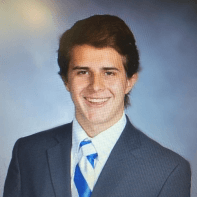
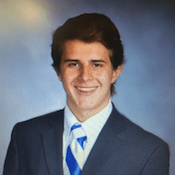
Resized all team photos to 175x175 and put the original video back on the website

diff --git a/index.html b/index.html
@@ -352,59 +352,17 @@
 <section class="stats" id = "importantDates">
     <!-- STATS -->
     
-    <!-- 
 	<div class="container">
 	    <style>.embed-container { position: relative; padding-bottom: 56.25%; height: 0; overflow: hidden; max-width: 100%; } .embed-container iframe, .embed-container object, .embed-container embed { position: absolute; top: 0; left: 0; width: 100%; height: 100%; }</style><div class='embed-container'><iframe src='https://www.youtube.com/embed/OKofZUAxw1c' frameborder='0' allowfullscreen></iframe></div>
 	</div><br><br>
 
+<!--
     <div class="container">
 	    <style>.embed-container { position: relative; padding-bottom: 56.25%; height: 0; overflow: hidden; max-width: 100%; } .embed-container iframe, .embed-container object, .embed-container embed { position: absolute; top: 0; left: 0; width: 100%; height: 100%; }</style><div class='embed-container'><iframe src='https://www.youtube.com/embed/6xuP8K7ROrk' frameborder='0' allowfullscreen></iframe></div>
 	</div><br><br>
     
     -->
-    
-    <script>
  
-    /* Light YouTube Embeds by @labnol */
-    /* Web: http://labnol.org/?p=27941 */
- 
-    document.addEventListener("DOMContentLoaded",
-        function() {
-            var div, n,
-                v = document.getElementsByClassName("youtube-player");
-            for (n = 0; n < v.length; n++) {
-                div = document.createElement("div");
-                div.setAttribute("data-id", v[n].dataset.id);
-                div.innerHTML = labnolThumb(v[n].dataset.id);
-                div.onclick = labnolIframe;
-                v[n].appendChild(div);
-            }
-        });    
-        
-    function labnolThumb(id) {
-        var thumb = '<img style="object-fit:cover;" src="https://i.ytimg.com/vi/ID/hqdefault.jpg" />',
-            play = '<div class="play"></div>';
-        return thumb.replace("ID", id) + play;
-    }
- 
-    function labnolIframe() {
-        var iframe = document.createElement("iframe");
-        var embed = "https://www.youtube.com/embed/ID?autoplay=1";
-        iframe.setAttribute("src", embed.replace("ID", this.dataset.id));
-        iframe.setAttribute("frameborder", "0");
-        iframe.setAttribute("allowfullscreen", "1");
-        this.parentNode.replaceChild(iframe, this);
-    }
- 
-</script>
-    
-    <div class="container">
-	    <style>.embed-container { position: relative; padding-bottom: 56.25%; height: 0; overflow: hidden; max-width: 100%; } .embed-container iframe, .embed-container object, .embed-container embed { position: absolute; top: 0; left: 0; width: 100%; height: 100%; }</style><div class='embed-container'><div class="youtube-player" data-id="OKofZUAxw1c"></div></div>
-	</div><br><br>
-    
-    <div class="container">
-	    <style>.embed-container { position: relative; padding-bottom: 56.25%; height: 0; overflow: hidden; max-width: 100%; } .embed-container iframe, .embed-container object, .embed-container embed { position: absolute; top: 0; left: 0; width: 100%; height: 100%; }</style><div class='embed-container'><div class="youtube-player" data-id="6xuP8K7ROrk"></div></div>
-	</div><br><br>
         
 	<div class="container">
 	    <!-- STATS -->
